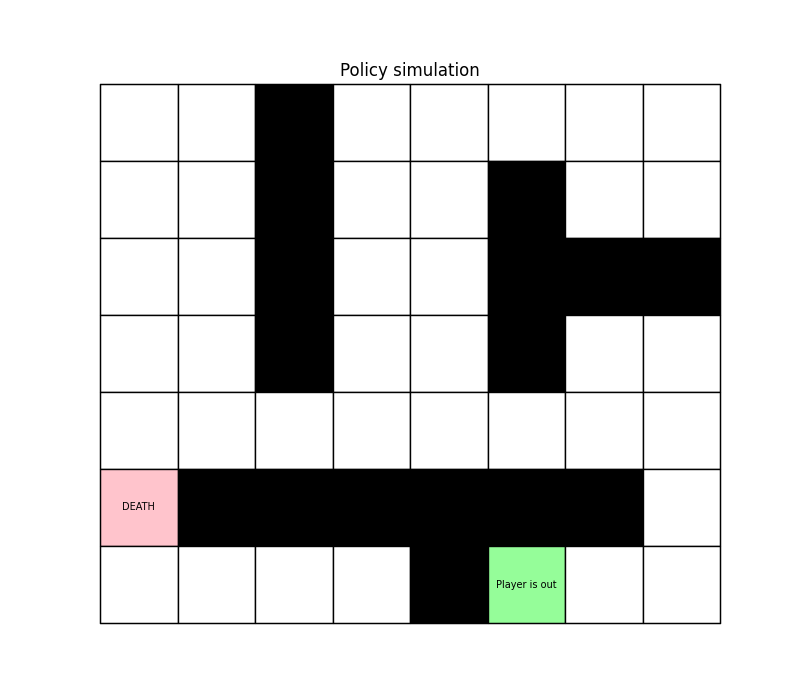
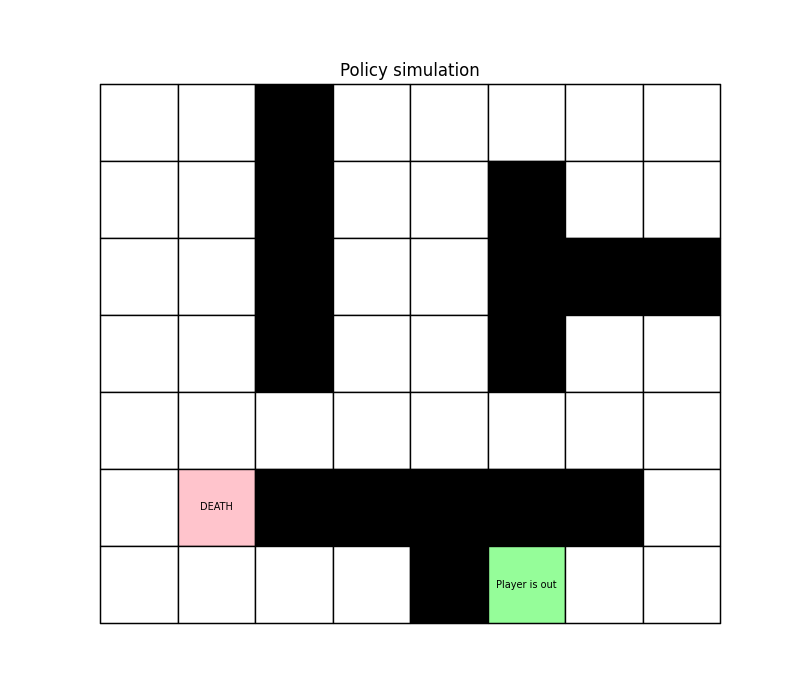
Police is working

Changed region(s): [[0.125, 0.66, 0.3438, 0.78]]

diff --git a/lab1/lab1_2_maze.py b/lab1/lab1_2_maze.py
@@ -34,17 +34,17 @@ class Maze:
     }
 
     # Reward values
-    STEP_REWARD = -1
-    GOAL_REWARD = 0
-    IMPOSSIBLE_REWARD = -100
-    EATEN_REWARD = -1000
+    BANK_REWARD = 10
+    STEP_REWARD = 0
+    CAUGHT_REWARD = -50
+    IMPOSSIBLE_REWARD = -1000
 
     def __init__(self, maze, weights=None, random_rewards=False):
         """ Constructor of the environment Maze.
         """
         self.maze = maze
         self.actions = self.__actions()
-        self.actions_minotaur = self.__actions_minotaur()
+        self.actions_police = self.__actions_police()
         self.states, self.map = self.__states()
         self.n_actions = len(self.actions)
         self.n_states = len(self.states)
@@ -61,7 +61,7 @@ class Maze:
         actions[self.MOVE_DOWN] = (1, 0)
         return actions
 
-    def __actions_minotaur(self):
+    def __actions_police(self):
         actions = dict()
         actions[self.STAY] = (0, 0)
         actions[self.MOVE_LEFT] = (0, -1)
@@ -69,6 +69,7 @@ class Maze:
         actions[self.MOVE_UP] = (-1, 0)
         actions[self.MOVE_DOWN] = (1, 0)
         return actions
+
 
     def __states(self):
         states = dict()
@@ -79,10 +80,9 @@ class Maze:
             for j in range(self.maze.shape[1]):
                 for k in range(self.maze.shape[0]):
                     for l in range(self.maze.shape[1]):
-                        if self.maze[i, j] != 1:
-                            states[s] = (i, j, k, l)
-                            map[(i, j, k, l)] = s
-                            s += 1
+                        states[s] = (i, j, k, l)
+                        map[(i, j, k, l)] = s
+                        s += 1
         return states, map
 
     def __move(self, state, action):
@@ -96,42 +96,86 @@ class Maze:
         col = self.states[state][1] + self.actions[action][1]
         # Is the future position an impossible one ?
         hitting_maze_walls = (row == -1) or (row == self.maze.shape[0]) or \
-                             (col == -1) or (col == self.maze.shape[1]) or \
-                             (self.maze[row, col] == 1)
+                             (col == -1) or (col == self.maze.shape[1])
         # Based on the impossiblity check return the next state.
         if hitting_maze_walls:
             return state
         else:
             return self.map[(row, col, self.states[state][2], self.states[state][3])]
 
-    def __move_minotaur(self, state):
+    def __move_police(self, state):
         """ Makes a step in the maze, given a current position.
             The
 
             :return tuple next_cell: Position (x,y) on the maze that agent transitions to.
         """
-        #minotaur can stand still
-        #action = random.randint(0, 4)
 
-        #minotaur cant stand still
-        action = random.randint(1, 4)
+        #if same column as robber
+        if (self.states[state][2] == self.states[state][0]) and (self.states[state][3] > self.states[state][1]):
+            print("go up down or left")
+            actioncandidates = [1, 3, 4] #go up down or left
+            actionindex = random.randint(0,2)
+            action = actioncandidates[actionindex]
+        elif (self.states[state][2] == self.states[state][0]) and (self.states[state][3] < self.states[state][1]):
+            print("go up down or right")
+            actioncandidates = [2, 3, 4] #go up down or right
+            actionindex = random.randint(0,2)
+            action = actioncandidates[actionindex]
+        elif (self.states[state][3] == self.states[state][1]) and (self.states[state][2] < self.states[state][0]):
+            print("go left right or down")
+            actioncandidates = [1, 2, 4] #go left right or down
+            actionindex = random.randint(0,2)
+            action = actioncandidates[actionindex]
+        elif (self.states[state][3] == self.states[state][1]) and (self.states[state][2] > self.states[state][0]):
+            print("go left right or up")
+            actioncandidates = [1, 2, 3] #go left right or up
+            actionindex = random.randint(0,2)
+            action = actioncandidates[actionindex]
+        elif (self.states[state][3] > self.states[state][1]) and (self.states[state][2] < self.states[state][0]):
+            print("go left or down")
+            actioncandidates = [1, 4] #left or down
+            actionindex = random.randint(0,1)
+            action = actioncandidates[actionindex]
+        elif (self.states[state][3] < self.states[state][1]) and (self.states[state][2] > self.states[state][0]):
+            print("go right or down")
+            actioncandidates = [2, 4] #go right or down
+            actionindex = random.randint(0,1)
+            action = actioncandidates[actionindex]
+        elif (self.states[state][3] > self.states[state][1]) and (self.states[state][2] > self.states[state][0]):
+            print("go left or up")
+            actioncandidates = [1, 3] #go left or up
+            actionindex = random.randint(0,1)
+            action = actioncandidates[actionindex]
+        elif (self.states[state][3] < self.states[state][1]) and (self.states[state][2] < self.states[state][0]):
+            print("go right or up")
+            actioncandidates = [2, 3] #go right or up
+            actionindex = random.randint(0,1)
+            action = actioncandidates[actionindex]
+
+        #print(action)
 
         # Compute the future position given current (state, action)
         debug_states = self.states
         debug_states_states = self.states[state]
-        debug_minotaur_action = self.actions_minotaur
-       # print(action)
-       # print(self.actions_minotaur[action][0])
-       # print(self.actions_minotaur[action][1])
+        debug_minotaur_action = self.actions_police
+        # print(action)
+        # print(self.actions_minotaur[action][0])
+        # print(self.actions_minotaur[action][1])
         #print(self.actions_minotaur[4])
         #print(action)
         #print(self.actions_minotaur[5])
-        row = self.states[state][2] + self.actions_minotaur[action][0]
-        col = self.states[state][3] + self.actions_minotaur[action][1]
+        if (self.states[state][3] == self.states[state][1]) and (self.states[state][2] == self.states[state][0]):
+            print("Player got caught")
+            return self.map[(self.states[state][0], self.states[state][1], 1, 2)]
+        row = self.states[state][2] + self.actions_police[action][0]
+        col = self.states[state][3] + self.actions_police[action][1]
         # Is the future position an impossible one ?
-        hitting_maze_walls = (row == -1) or (row == 7) or \
-                             (col == -1) or (col == 8)
+        hitting_maze_walls = (row == -1) or (row == 3) or \
+                             (col == -1) or (col == 6)
         # Based on the impossiblity check return the next state.
+
+        #Check if police caught the player
+
         if hitting_maze_walls:
             return state
         else:
@@ -167,12 +211,12 @@ class Maze:
                     if s == next_s and a != self.STAY:
                         rewards[s, a] = self.IMPOSSIBLE_REWARD
                     # Reward for reaching the exit
-                    elif s == next_s and self.maze[self.states[next_s][0:2]] == 2:
-                        rewards[s, a] = self.GOAL_REWARD
+                    elif s == next_s and self.maze[self.states[next_s][0:2]] == 1:
+                        rewards[s, a] = self.BANK_REWARD
                     # Reward for taking a step to an empty cell that is not the exit
                     elif self.states[s][0] == self.states[s][2] and \
                             self.states[s][1] == self.states[s][3]:
-                        rewards[s, a] = self.EATEN_REWARD
+                        rewards[s, a] = self.CAUGHT_REWARD
                     else:
                         rewards[s, a] = self.STEP_REWARD
 
@@ -203,7 +247,7 @@ class Maze:
             path.append(start)
             while t < horizon - 1:
                 # Move to next state given the policy and the current state
-                s = self.__move_minotaur(s)
+                s = self.__move_police(s)
 
                 if self.states[s][0] == self.states[s][2] and self.states[s][1] == self.states[s][3]:
                     print("Eaten!")
@@ -220,8 +264,6 @@ class Maze:
                 # Update time and state for next iteration
                 t += 1
                 s = next_s
-                if t == (horizon-1) and self.states[s][0:2] != (6, 5):
-                    print('Out of time')
         if method == 'ValIter':
             # Initialize current state, next state and time
             t = 1
@@ -229,19 +271,21 @@ class Maze:
             # Add the starting position in the maze to the path
             path.append(start)
             # Move to next state given the policy and the current state
-            next_s = self.__move(s, policy[s])
             # Add the position in the maze corresponding to the next state
             # to the path
-            path.append(self.states[next_s])
             # Loop while state is not the goal state
-            while s != next_s:
+            while t < 20:
                 # Update state
-                s = next_s
                 # Move to next state given the policy and the current state
-                next_s = self.__move(s, policy[s])
+                print(t)
+                print(self.states[s])
+                s = self.__move_police(s)
+                print(self.states[s])
+                s = self.__move(s, policy[s])
+                print(self.states[s])
                 # Add the position in the maze corresponding to the next state
                 # to the path
-                path.append(self.states[next_s])
+                path.append(self.states[s])
                 # Update time and state for next iteration
                 t += 1
         return path
@@ -274,6 +318,7 @@ def dynamic_programming(env, horizon):
     # - State space
     # - Action space
     # - The finite horizon
+    l = 0.7
     p = env.transition_probabilities
     r = env.rewards
     n_states = env.n_states
@@ -296,7 +341,7 @@ def dynamic_programming(env, horizon):
         for s in range(n_states):
             for a in range(n_actions):
                 # Update of the temporary Q values
-                Q[s, a] = r[s, a] + np.dot(p[:, s, a], V[:, t + 1])
+                Q[s, a] = l**(t-1)*r[s, a] + np.dot(p[:, s, a], V[:, t + 1])
         # Update by taking the maximum Q value w.r.t the action a
         V[:, t] = np.max(Q, 1)
         # The optimal action is the one that maximizes the Q function
@@ -345,6 +390,8 @@ def value_iteration(env, gamma, epsilon):
     while np.linalg.norm(V - BV) >= tol and n < 200:
         # Increment by one the numbers of iteration
         n += 1
+        print("Iterating n")
+        print(n)
         # Update the value function
         V = np.copy(BV)
         # Compute the new BV
@@ -400,7 +447,7 @@ def draw_maze(maze):
 
 def animate_solution(maze, path):
     # Map a color to each cell in the maze
-    col_map = {0: WHITE, 1: BLACK, 2: LIGHT_GREEN, -6: LIGHT_PURPLE, -1: LIGHT_RED}
+    col_map = {0: WHITE, 1: LIGHT_GREEN, 2: BLACK, -6: LIGHT_PURPLE, -1: LIGHT_RED}
 
     # Size of the maze
     rows, cols = maze.shape
@@ -452,16 +499,13 @@ def animate_solution(maze, path):
             grid.get_celld()[minotaur_coord_last_timestep].set_facecolor(col_map[debug_maze_minotaur])
             grid.get_celld()[minotaur_coord_last_timestep].get_text().set_text('')
 
-        # draw player and minotaur
-        if player_coord == (6, 5):
-            grid.get_celld()[player_coord].set_facecolor(LIGHT_GREEN)
-            grid.get_celld()[player_coord].get_text().set_text('Player is out')
-        else:
-            debug_get_celld[player_coord].set_facecolor(LIGHT_ORANGE)
-            grid.get_celld()[player_coord].get_text().set_text('Player')
+        # draw player and police
+
+        debug_get_celld[player_coord].set_facecolor(LIGHT_ORANGE)
+        grid.get_celld()[player_coord].get_text().set_text('Player')
 
         debug_get_celld[minotaur_coord].set_facecolor(LIGHT_RED)
-        grid.get_celld()[minotaur_coord].get_text().set_text('DEATH')
+        grid.get_celld()[minotaur_coord].get_text().set_text('Police')
 
         display.display(fig)
         plt.savefig("ba" + str(i) + ".png")

diff --git a/lab1/lab1_c.py b/lab1/lab1_c.py
@@ -1,0 +1,42 @@
+import numpy as np
+import lab1_2_maze as mz
+from matplotlib import pyplot as plt
+
+maze = np.zeros((3, 6))
+maze[0, 0] = 1 # banks
+maze[0, 5] = 1
+maze[2, 0] = 1
+maze[2, 5] = 1
+
+# exit
+#mz.draw_maze(maze)
+#plt.show()
+numfinishmaze = 0
+# Create an environment maze
+env = mz.Maze(maze)
+
+# Finite horizon
+horizon = 20
+
+gamma = 0.7
+epsilon = 0.05
+# Solve the MDP problem with dynamic programming
+V, policy = mz.value_iteration(env, gamma, epsilon)
+#for i in range(100):
+# Simulate the shortest path starting from position A
+#   method = 'DynProg'
+#  start  = (0, 0, 6, 5)
+# path = env.simulate(start, policy, method)
+#if path[-1][0:2] == (6, 5):
+#   numfinishmaze += 1
+#print(numfinishmaze)
+method = 'ValIter'
+start  = (0, 0, 1, 2)
+path = env.simulate(start, policy, method)
+
+
+
+
+# Show the shortest path
+mz.animate_solution(maze, path)
+

diff --git a/lab1/lab1.py b/lab1/lab1.py
@@ -21,18 +21,21 @@ env = mz.Maze(maze)
 horizon = np.random.geometric(p=1/30)
 # Solve the MDP problem with dynamic programming
 V, policy = mz.dynamic_programming(env, horizon)
-for i in range(100):
+#for i in range(100):
     # Simulate the shortest path starting from position A
-    method = 'DynProg'
-    start  = (0, 0, 6, 5)
-    path = env.simulate(start, policy, method)
-    if path[-1][0:2] == (6, 5):
-        numfinishmaze += 1
-    print(numfinishmaze)
+ #   method = 'DynProg'
+  #  start  = (0, 0, 6, 5)
+   # path = env.simulate(start, policy, method)
+    #if path[-1][0:2] == (6, 5):
+     #   numfinishmaze += 1
+    #print(numfinishmaze)
+method = 'DynProg'
+start  = (0, 0, 6, 5)
+path = env.simulate(start, policy, method)
 
 
 
 
 # Show the shortest path
-#mz.animate_solution(maze, path)
+mz.animate_solution(maze, path)
 
